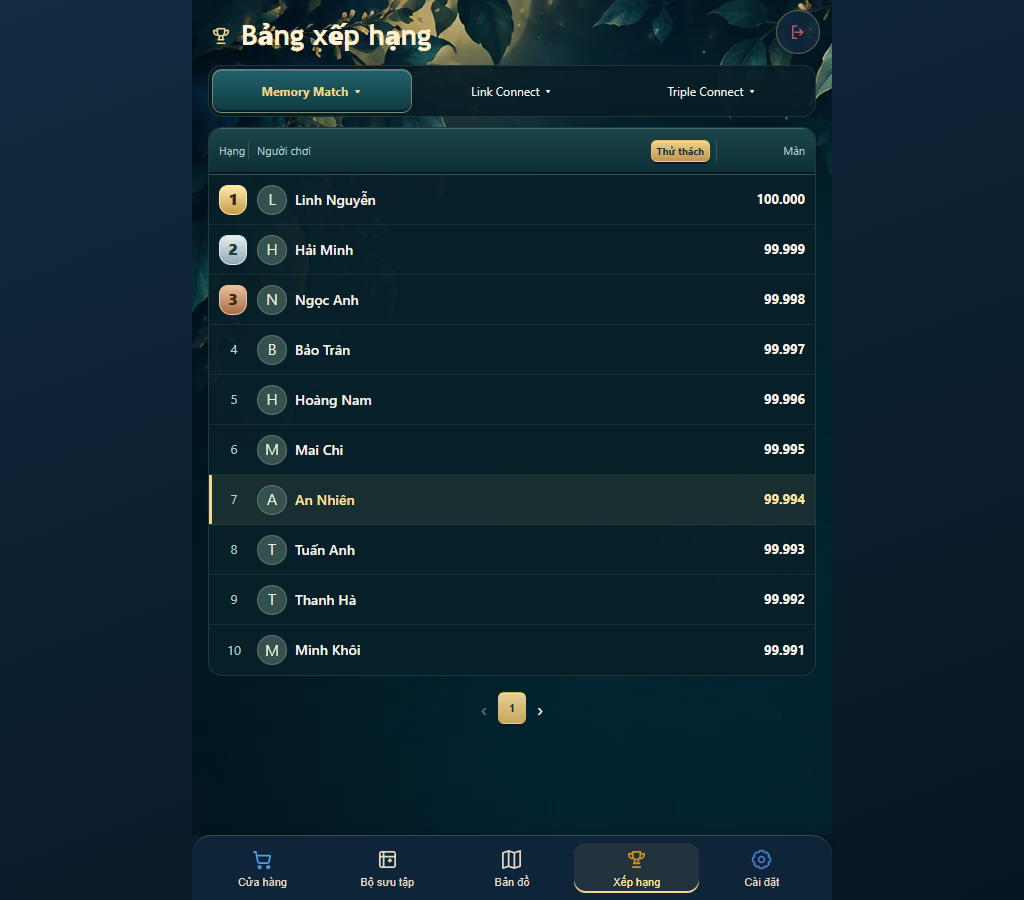
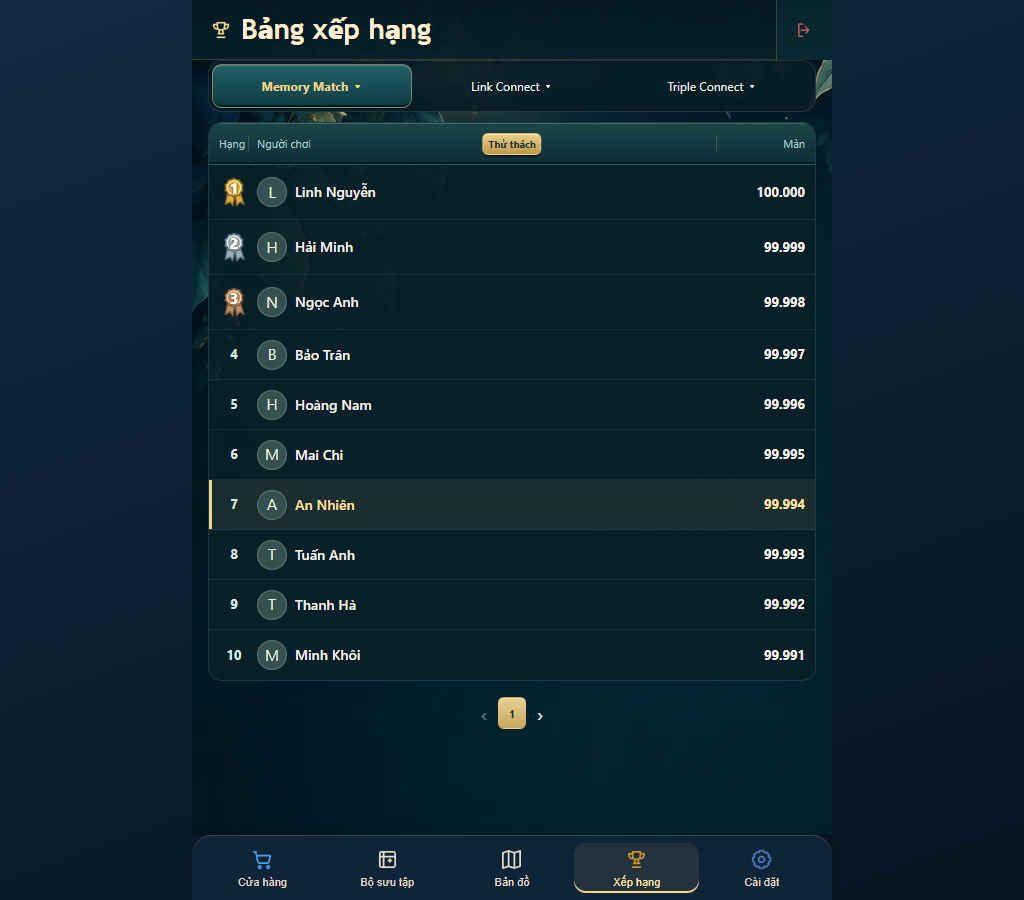
fix: refine tab headers, profile editing and rank medals

diff --git a/js/accountPanel.js b/js/accountPanel.js
@@ -23,19 +23,20 @@ export function showAccountPanel(surface = {}) {
   const identity = document.createElement('div');
   const playerName = document.createElement('h3'); playerName.className = 'profile-player-name';
   const accountType = document.createElement('p'); accountType.className = 'account-identity';
-  identity.append(playerName, accountType);
+  identity.className = 'profile-identity';
+  const nameRow = document.createElement('div'); nameRow.className = 'profile-name-row';
+  identity.append(nameRow, accountType);
   const edit = document.createElement('button'); edit.type = 'button'; edit.className = 'tab-button tab-button--quiet profile-edit';
   edit.setAttribute('aria-label', 'Sửa tên'); edit.setAttribute('aria-expanded', 'false'); edit.append(createIcon('edit'));
-  summary.append(avatar, identity, edit); hero.append(summary);
+  summary.append(avatar, identity); hero.append(summary);
   const form = document.createElement('form'); form.className = 'profile-name-form'; form.hidden = true;
-  const label = document.createElement('label'); label.textContent = 'Tên hiển thị'; label.htmlFor = 'profile-player-name';
+  const label = document.createElement('label'); label.className = 'profile-name-label'; label.textContent = 'Tên hiển thị'; label.htmlFor = 'profile-player-name';
   const name = document.createElement('input'); name.id = 'profile-player-name'; name.className = 'account-name-input';
   name.type = 'text'; name.maxLength = 20; name.required = true; name.autocomplete = 'nickname';
-  const saveName = document.createElement('button'); saveName.type = 'submit'; saveName.className = 'tab-button'; saveName.textContent = 'Lưu tên';
-  const cancel = document.createElement('button'); cancel.type = 'button'; cancel.className = 'tab-button tab-button--quiet'; cancel.textContent = 'Hủy';
-  const formActions = document.createElement('div'); formActions.className = 'profile-name-actions'; formActions.append(cancel, saveName);
+  const saveName = edit;
+  const cancel = document.createElement('button'); cancel.type = 'button'; cancel.className = 'tab-button tab-button--quiet'; cancel.textContent = '×'; cancel.setAttribute('aria-label', 'Hủy');
   const error = document.createElement('p'); error.className = 'profile-error'; error.setAttribute('role', 'alert');
-  form.append(label, name, error, formActions); hero.append(form);
+  form.append(label, name, cancel); nameRow.append(playerName, form, edit); identity.append(error);
   const stats = profileDetails(hero);
   const account = document.createElement('section'); account.className = 'tab-card profile-account';
   const heading = document.createElement('h3'); heading.className = 'tab-section-title'; heading.textContent = 'Tài khoản';
@@ -53,7 +54,7 @@ export function showAccountPanel(surface = {}) {
   activeView = { modal, dispose };
   releaseOwner = (surface.owner || getAppPageScope())?.own(dispose, 'cleanup');
   function closeEditor(focus = false) {
-    form.hidden = true; edit.setAttribute('aria-expanded', 'false'); error.textContent = ''; name.value = ''; editingUid = null;
+    form.hidden = true; playerName.hidden = false; edit.setAttribute('aria-expanded', 'false'); edit.setAttribute('aria-label', 'Sửa tên'); edit.replaceChildren(createIcon('edit')); error.textContent = ''; name.value = ''; editingUid = null;
     if (focus) edit.focus();
   }
   function renderState(state) {
@@ -62,18 +63,20 @@ export function showAccountPanel(surface = {}) {
     playerName.textContent = state.playerName || 'Người chơi';
     avatar.textContent = Array.from(playerName.textContent.trim())[0]?.toLocaleUpperCase('vi-VN') || '•';
     accountType.textContent = state.isAnonymous === false ? 'Đã liên kết Google' : 'Tài khoản khách';
-    status.textContent = ({ connecting: 'Đang kết nối…', restoring: 'Đang tải tiến trình…', syncing: 'Đang lưu…', synced: 'Đã lưu tiến trình', waiting: 'Đang chờ lưu', offline: 'Chưa có kết nối', error: 'Chưa lưu được. Sẽ thử lại.', disabled: 'Tiến trình đã lưu trên thiết bị.', conflict: 'Đang tải tiến trình…' })[state.phase] || '';
+    status.textContent = ({ connecting: 'Đang kết nối…', restoring: 'Đang tải tiến trình…', syncing: 'Đang lưu…', synced: '', waiting: 'Đang chờ lưu', offline: 'Chưa có kết nối', error: 'Chưa lưu được. Sẽ thử lại.', disabled: '', conflict: 'Đang tải tiến trình…' })[state.phase] || '';
     const busy = saving || linking || ['connecting', 'restoring', 'syncing', 'conflict'].includes(state.phase);
     edit.disabled = name.disabled = saveName.disabled = google.disabled = !service || !state.bound || busy;
     cancel.disabled = saving || linking;
     google.replaceChildren(createIcon('account'), document.createTextNode(state.isAnonymous === false ? 'Đổi tài khoản Google' : 'Liên kết Google'));
     google.hidden = !service || state.phase === 'disabled';
+    account.hidden = google.hidden && !status.textContent;
     if (busy) modal.panel.setAttribute('aria-busy', 'true');
     else modal.panel.removeAttribute('aria-busy');
   }
   edit.onclick = () => {
+    if (!form.hidden) { form.requestSubmit(); return; }
     const state = service.getState(); editingUid = state.uid; name.value = state.playerName || '';
-    form.hidden = false; edit.setAttribute('aria-expanded', 'true'); name.focus(); name.select();
+    form.hidden = false; playerName.hidden = true; edit.setAttribute('aria-expanded', 'true'); edit.setAttribute('aria-label', 'Lưu tên'); edit.replaceChildren(createIcon('check')); name.focus(); name.select();
   };
   cancel.onclick = () => closeEditor(true);
   form.onsubmit = async event => {
@@ -104,17 +107,18 @@ function profileDetails(content) {
   const joinedCard = document.createElement('div'); const timeCard = document.createElement('div');
   const joinedLabel = document.createElement('dt'); const joined = document.createElement('dd');
   const timeLabel = document.createElement('dt'); timeLabel.textContent = 'Thời gian chơi'; const time = document.createElement('dd');
+  const timeValue = document.createElement('span'); time.append(timeValue);
   joinedCard.append(joinedLabel, joined); timeCard.append(timeLabel, time); details.append(joinedCard, timeCard);
-  const since = document.createElement('p'); since.className = 'account-play-since';
+  const since = document.createElement('p'); since.className = 'account-play-since'; time.append(since);
   const status = document.createElement('p'); status.className = 'account-play-since'; status.setAttribute('aria-live', 'polite');
-  content.append(details, since, status);
+  content.append(details, status);
   const formatDate = value => new Date(value).toLocaleDateString('vi-VN', { day: '2-digit', month: '2-digit', year: 'numeric' });
   const stats = getProfileStatsService();
   const render = state => {
     joinedLabel.textContent = state.onlineAccount ? 'Tham gia' : 'Hồ sơ tạo ngày';
     joined.textContent = state.joinedAt ? formatDate(state.joinedAt) : '—';
-    time.textContent = state.totalPlayMs === null ? '—' : formatProfilePlaytime(state.totalPlayMs);
-    since.textContent = state.trackedSince ? `Từ ${formatDate(state.trackedSince)}` : '';
+    timeValue.textContent = state.totalPlayMs === null ? '—' : formatProfilePlaytime(state.totalPlayMs);
+    since.textContent = state.trackedSince ? `Tính từ ${formatDate(state.trackedSince)}` : '';
     status.textContent = state.phase === 'error' ? 'Chưa cập nhật được thời gian chơi.' : '';
   };
   render({ onlineAccount: false, totalPlayMs: null });

diff --git a/styles/leaderboard.css b/styles/leaderboard.css
@@ -34,13 +34,19 @@
 .leaderboard-heading { display: grid; grid-template-columns: 30px minmax(0, 1fr) 80px; align-items: center; gap: 8px; padding: 12px 10px; border-bottom: 1px solid var(--ranking-line); background: linear-gradient(#1b464a, #0d2e36); box-shadow: inset 0 1px #e1ebc935, inset 0 -2px #031921; position: sticky; top: 0; z-index: 1; color: var(--ranking-muted); font-size: 11px; }
 .leaderboard-heading > span:nth-child(n+3) { text-align: right; }
 .leaderboard-metric { overflow: hidden; text-overflow: ellipsis; white-space: nowrap; }
-.leaderboard-list .leaderboard-rank--1, .leaderboard-list .leaderboard-rank--2, .leaderboard-list .leaderboard-rank--3 { display: grid; place-items: center; width: 28px; height: 30px; border-radius: 9px 9px 12px 12px; color: #3a2a11; font-size: 16px; font-weight: 800; background: linear-gradient(#ffebad, #c69b49); border: 1px solid #fae8ad; box-sizing: border-box; }
-.leaderboard-list .leaderboard-rank--2 { background: linear-gradient(#e4eff0, #8fa8b1); border-color: #d7e9ea; color: #253b42; }
-.leaderboard-list .leaderboard-rank--3 { background: linear-gradient(#eabe9e, #a86d45); border-color: #ebc3a1; }
+/* Top places use illustrated medals; the remaining places stay unframed. */
+.leaderboard-list .leaderboard-rank--1, .leaderboard-list .leaderboard-rank--2, .leaderboard-list .leaderboard-rank--3 { position: relative; display: grid; place-items: center; width: 30px; height: 36px; color: #fff9e8; font-size: 15px; font-weight: 800; --rank-medal-face: #dcae42; --rank-medal-edge: #826321; --rank-medal-light: #fff0a5; }
+.leaderboard-list .leaderboard-rank--2 { --rank-medal-face: #9eafb5; --rank-medal-edge: #5b727d; --rank-medal-light: #f1fbff; }
+.leaderboard-list .leaderboard-rank--3 { --rank-medal-face: #ba8d63; --rank-medal-edge: #795438; --rank-medal-light: #ffe0b5; }
+.leaderboard-rank .ui-icon--rank-medal { position: absolute; inset: 0; width: 30px; height: 36px; stroke-width: 1.1; stroke: var(--rank-medal-edge); }
+.rank-medal__ribbons { fill: var(--rank-medal-face); }
+.rank-medal__face { fill: var(--rank-medal-face); }
+.rank-medal__shine { fill: none; stroke: var(--rank-medal-light); stroke-width: .8; }
+.leaderboard-medal-number { position: absolute; top: 4px; left: 0; width: 30px; line-height: 20px; text-align: center; text-shadow: 0 1px 2px var(--rank-medal-edge), 1px 0 var(--rank-medal-edge), -1px 0 var(--rank-medal-edge); }
 .leaderboard-list li { display: grid; grid-template-columns: 30px 30px minmax(0, 1fr) auto; align-items: center; gap: 8px; padding: 9px 10px; min-height: 50px; box-sizing: border-box; border-bottom: 1px solid #8cb6b11c; }
 .leaderboard-list li:last-child { border-bottom: 0; }
 .leaderboard-name { overflow: hidden; text-overflow: ellipsis; white-space: nowrap; font-size: 14px; font-weight: 600; }
-.leaderboard-rank { text-align: center; font-variant-numeric: tabular-nums; color: var(--ranking-muted); font-size: 13px; }
+.leaderboard-rank { text-align: center; font-variant-numeric: tabular-nums; color: #d6e9e5; font-size: 13px; font-weight: 700; }
 .leaderboard-avatar { display: grid; place-items: center; width: 30px; height: 30px; box-sizing: border-box; border-radius: 50%; border: 1px solid #d9e9d540; background: #34514f; color: #e8efdc; }
 .leaderboard-avatar .ui-icon { width: 20px; height: 20px; }
 .leaderboard-list strong { font-size: 13px; font-variant-numeric: tabular-nums; text-align: right; }
@@ -69,8 +75,8 @@
 .leaderboard-results::-webkit-scrollbar { display: none; }
 .leaderboard-heading > span { min-width: 0; }
 .leaderboard-heading > span:not(:last-child) { border-right: 1px solid #d7cb9433; padding-right: 6px; }
-.leaderboard-heading-player { display: flex; align-items: center; justify-content: space-between; gap: 4px; }
+.leaderboard-heading-player { display: flex; align-items: center; gap: 4px; }
 .leaderboard-heading-player > span { white-space: nowrap; }
-.leaderboard-family-label { padding: 3px 5px; border: 1px solid #e6c980a1; border-radius: 6px; background: linear-gradient(#efd28a, #bf974b); box-shadow: inset 0 1px #fff4c680, 0 2px #061b24; color: #16343a; white-space: nowrap; font-size: 10px; line-height: 1.4; }
+.leaderboard-family-label { position: absolute; left: 50%; top: 50%; transform: translate(-50%, -50%); padding: 3px 5px; border: 1px solid #e6c980a1; border-radius: 6px; background: linear-gradient(#efd28a, #bf974b); box-shadow: inset 0 1px #fff4c680, 0 2px #061b24; color: #16343a; white-space: nowrap; font-size: 10px; line-height: 1.4; }
 .leaderboard-panel .leaderboard-retry { display: block; margin: 0 auto 18px; }
 .leaderboard-panel .leaderboard-retry[hidden] { display: none; }

diff --git a/styles/profile.css b/styles/profile.css
@@ -1,28 +1,35 @@
 .profile-view { display: grid; gap: 22px; padding-top: 10px; min-width: 0; }
-.profile-summary { display: grid; grid-template-columns: 64px minmax(0, 1fr) 44px; gap: 14px; align-items: center; }
+.profile-summary { display: grid; grid-template-columns: 64px minmax(0, 1fr); gap: 14px; align-items: center; }
 .profile-avatar { display: grid; place-items: center; width: 64px; height: 64px; border: 2px solid var(--tab-gold); border-radius: 50%; background: linear-gradient(140deg, #286070, #09222b); color: var(--tab-gold); box-shadow: var(--tab-edge); font-size: 30px; font-weight: 700; }
 .profile-player-name { margin: 0 0 5px; color: var(--tab-ink); font-size: 22px; line-height: 1.3; overflow-wrap: anywhere; }
 .account-identity { color: var(--tab-muted); font-size: 12px; }
-.profile-edit { padding: 10px; }
+.profile-edit { padding: 10px; flex: 0 0 44px; }
+.profile-identity { min-width: 0; }
+.profile-name-row { display: flex; align-items: center; gap: 6px; min-width: 0; }
+.profile-name-row .profile-player-name { margin: 0; }
+.profile-name-row + .account-identity { margin-top: 5px; }
 .account-play-details { display: grid; grid-template-columns: repeat(2, minmax(0, 1fr)); gap: 12px; margin: 20px 0 0; }
 .account-play-details > div { min-width: 0; padding: 12px; border: 1px solid #b6a16c55; border-radius: 12px; background: #06212acf; box-shadow: var(--tab-edge); }
 .account-play-details dt { color: var(--tab-muted); font-size: 12px; }
 .account-play-details dd { margin: 7px 0 0; color: var(--tab-gold); font-size: 15px; line-height: 1.5; font-variant-numeric: tabular-nums; overflow-wrap: anywhere; }
 .account-play-since { margin-top: 10px !important; color: var(--tab-muted); font-size: 11px; }
 .account-play-since:empty { display: none; }
+.account-status:empty { display: none; }
+.account-status:empty + .profile-google { margin-top: 0; }
 .account-status { color: var(--tab-muted); font-size: 13px; }
 .profile-google { width: 100%; margin-top: 16px; }
-.profile-name-form { display: grid; gap: 10px; padding-top: 18px; margin-top: 18px; border-top: 1px solid var(--tab-line); font-size: 14px; }
+.profile-name-form { display: grid; grid-template-columns: minmax(0, 1fr) 44px; gap: 4px; flex: 1; min-width: 0; font-size: 16px; }
+.profile-name-label { position: absolute; width: 1px; height: 1px; overflow: hidden; clip-path: inset(50%); }
+.profile-name-form .tab-button { padding: 4px; min-width: 44px; }
 .profile-name-form[hidden], .profile-google[hidden] { display: none; }
-.account-name-input { box-sizing: border-box; width: 100%; min-height: 44px; border: 1px solid #9fbdb47a; border-radius: 10px; padding: 10px 12px; background: #051c27; color: var(--tab-ink); font: inherit; }
+.account-name-input { box-sizing: border-box; width: 100%; min-width: 0; min-height: 44px; border: 1px solid #9fbdb47a; border-radius: 10px; padding: 10px 12px; background: #051c27; color: var(--tab-ink); font: inherit; }
 .account-name-input:focus { outline: 2px solid var(--tab-gold); outline-offset: 2px; }
-.profile-name-actions { display: flex; gap: 10px; justify-content: flex-end; }
 .profile-error { font-size: 13px; color: #ffaaa1; }
 .profile-error:empty { display: none; }
 #account-modal:not(.app-screen-content) .app-modal { background: #071f29; border-color: var(--tab-line); }
 #account-modal .app-modal__close { background: #ffffff12; color: var(--tab-gold); }
 @media (max-width: 360px) {
-  .profile-summary { grid-template-columns: 48px minmax(0, 1fr) 44px; gap: 10px; }
+  .profile-summary { grid-template-columns: 48px minmax(0, 1fr); gap: 10px; }
   .profile-avatar { width: 48px; height: 48px; font-size: 25px; }
   .profile-player-name { font-size: 19px; }
   .account-play-details { gap: 8px; }

diff --git a/tests/ui/leaderboard-layout.spec.js b/tests/ui/leaderboard-layout.spec.js
@@ -141,7 +141,7 @@ test('30 mount, picker cancel and mode changes release every page-owned resource
   await test.info().attach('ranking-30-cycle-resources', { body: JSON.stringify(evidence), contentType: 'application/json' });
   expect(decodes.length).toBeLessThanOrEqual(1);
 });
-for (const viewport of [{ width: 412, height: 915 }, { width: 640, height: 360 }, { width: 844, height: 390 }, { width: 1024, height: 900 }]) {
+for (const viewport of [{ width: 320, height: 740 }, { width: 412, height: 915 }, { width: 640, height: 360 }, { width: 844, height: 390 }, { width: 1024, height: 900 }]) {
   test(`ranking layout, all nine boards and scroll at ${viewport.width}x${viewport.height}`, async ({ page }) => {
     await page.setViewportSize(viewport); await open(page);
     for (const game of ['memory-match', 'link-connect', 'triple-connect']) {
@@ -157,6 +157,13 @@ for (const viewport of [{ width: 412, height: 915 }, { width: 640, height: 360 }
     for (const box of boxes) { expect(box.x).toBeGreaterThanOrEqual(0); expect(box.right).toBeLessThanOrEqual(viewport.width); expect(Math.round(box.height * 1000) / 1000).toBeGreaterThanOrEqual(box.minimum); expect(box.bottom).toBeLessThanOrEqual(viewport.height); }
     await expect(page.locator('.leaderboard-tabs--mode, .leaderboard-level')).toHaveCount(0);
     const panelBox = await page.locator('.leaderboard-panel').boundingBox();
+    const headingBox = await page.locator('.leaderboard-heading').boundingBox();
+    const familyBox = await page.locator('.leaderboard-family-label').boundingBox();
+    expect(Math.abs(familyBox.x + familyBox.width / 2 - headingBox.x - headingBox.width / 2)).toBeLessThan(1);
+    const playerLabel = await page.locator('.leaderboard-heading-player > span').boundingBox();
+    const levelLabel = await page.locator('.leaderboard-heading > span:last-child').boundingBox();
+    expect(playerLabel.x + playerLabel.width).toBeLessThanOrEqual(familyBox.x);
+    expect(familyBox.x + familyBox.width).toBeLessThanOrEqual(levelLabel.x);
     const pagerBox = await page.locator('.leaderboard-pager').boundingBox();
     expect(Math.abs(pagerBox.x + pagerBox.width / 2 - panelBox.x - panelBox.width / 2)).toBeLessThan(2);
     await page.getByRole('button', { name: 'Sau', exact: true }).click();
@@ -210,7 +217,12 @@ test('final garden artwork, centered footer and background failure keep a usable
   const last = await page.locator('.leaderboard-list li').last().boundingBox();
   const region = await page.locator('.leaderboard-results').boundingBox();
   expect(last.y + last.height).toBeLessThanOrEqual(region.y + region.height);
-  expect(await page.locator('.leaderboard-rank--1').evaluate(node => getComputedStyle(node).color)).toBe('rgb(58, 42, 17)');
+  expect(await page.locator('.leaderboard-rank--1').evaluate(node => getComputedStyle(node).color)).toBe('rgb(255, 249, 232)');
+  await expect(page.locator('.ui-icon--rank-medal')).toHaveCount(3);
+  await expect(page.locator('.leaderboard-medal-number')).toHaveText(['1', '2', '3']);
+  await expect(page.getByRole('img', { name: 'Hạng 1', exact: true })).toHaveCount(1);
+  expect(await page.locator('.leaderboard-rank--1').evaluate(node => getComputedStyle(node).borderStyle)).toBe('none');
+  await expect(page.locator('.leaderboard-list li').nth(3).locator('.ui-icon--rank-medal')).toHaveCount(0);
   await page.locator('.leaderboard-results').blur();
   await page.screenshot({ path: 'docs/design/app-tabs/qa/mobile-level.png', animations: 'disabled' });
   await page.locator('[data-rank-game="memory-match"]').click();

diff --git a/tests/ui/profile-layout.spec.js b/tests/ui/profile-layout.spec.js
@@ -15,19 +15,29 @@ for (const viewport of [{ width: 320, height: 740 }, { width: 412, height: 915 }
   await page.setViewportSize(viewport); await open(page);
   await expect(page.locator('.profile-name-form')).toBeHidden();
   await expect(page.locator('#account-modal .app-modal__footer')).toHaveCount(0);
+  await expect(page.locator('.account-status')).toBeEmpty();
+  const title = await page.locator('.profile-player-name').boundingBox();
+  const pencil = await page.getByRole('button', { name: 'Sửa tên' }).boundingBox();
+  expect(pencil.x - title.x - title.width).toBeLessThanOrEqual(8);
   await page.getByRole('button', { name: 'Sửa tên' }).click();
+  await expect(page.locator('.profile-player-name')).toBeHidden();
+  await expect(page.locator('.app-modal-overlay')).toHaveCount(0);
   await page.locator('.account-name-input').fill('Tên đang sửa');
+  if (viewport.width === 412) await page.screenshot({ path: 'docs/design/app-tabs/qa/profile-editing-412.png', animations: 'disabled' });
   await page.evaluate(() => { window.profileState.phase = 'waiting'; window.profileSubscriber(window.profileState); });
   await expect(page.locator('.account-name-input')).toHaveValue('Tên đang sửa');
   await page.getByRole('button', { name: 'Hủy', exact: true }).click();
   await expect(page.locator('.profile-player-name')).toHaveText('An Nhiên');
   await page.getByRole('button', { name: 'Sửa tên' }).click();
   await page.locator('.account-name-input').fill('Tên đã lưu');
-  await page.getByRole('button', { name: 'Lưu tên', exact: true }).click();
+  await page.locator('.account-name-input').press('Enter');
   await expect(page.locator('.profile-player-name')).toHaveText('Tên đã lưu');
   await expect(page.locator('.profile-name-form')).toBeHidden();
   expect(await page.locator('.profile-view').evaluate(el => el.scrollWidth <= el.clientWidth)).toBe(true);
   await expect(page.getByRole('button', { name: 'Liên kết Google', exact: true })).toBeVisible();
+  await page.evaluate(() => { window.profileState.phase = 'synced'; window.profileSubscriber(window.profileState); });
+  await expect(page.locator('.app-toast')).toHaveCount(0);
+  await page.screenshot({ path: `docs/design/app-tabs/qa/profile-inline-${viewport.width}.png`, animations: 'disabled' });
 });
 test('profile failures keep the draft, UID changes discard it, pending actions do not mutate a closed view', async ({ page }) => {
   await open(page); await page.getByRole('button', { name: 'Sửa tên' }).click();

diff --git a/tests/ui/app-tabs.spec.js b/tests/ui/app-tabs.spec.js
@@ -2,6 +2,25 @@ import { expect, test } from '@playwright/test';
 import { mkdirSync } from 'node:fs';
 mkdirSync('docs/design/app-tabs/qa', { recursive: true });
 
+for (const viewport of [{ width: 320, height: 740 }, { width: 412, height: 915 }, { width: 844, height: 390 }, { width: 1024, height: 900 }]) test(`five tab exit buttons attach to the header corner at ${viewport.width}`, async ({ page }) => {
+  await page.setViewportSize(viewport); await page.goto('/');
+  for (const action of ['missions', 'friends', 'profile', 'ranking', 'settings']) {
+    await page.locator(`.adventure-page:not([hidden]) [data-dock-action="${action}"]`).click();
+    const screen = page.locator('.adventure-screen');
+    const header = await screen.locator('.app-modal__header').boundingBox();
+    const exit = screen.locator(':scope > .adventure-exit'); const box = await exit.boundingBox();
+    expect(Math.abs(box.x + box.width - header.x - header.width)).toBeLessThan(1);
+    expect(Math.abs(box.y - header.y)).toBeLessThan(1);
+    expect(box.height).toBe(header.height);
+    await expect(exit).toHaveCSS('border-radius', '0px');
+    await screen.locator('.app-modal__body').evaluate(el => el.scrollTop = el.scrollHeight);
+    expect((await exit.boundingBox()).y).toBe(box.y);
+  }
+  await page.locator('.adventure-screen > .adventure-exit').click();
+  await expect(page.locator('.adventure-screen')).toHaveCount(0);
+  await expect(page.locator('.game-selector__choice')).toHaveCount(3);
+});
+
 test('functional tab backgrounds load on demand and never appear on Home', async ({ page }) => {
   await page.goto('/');
   await expect(page.locator('[data-dock-action="profile"]')).toBeVisible();
@@ -11,6 +30,7 @@ test('functional tab backgrounds load on demand and never appear on Home', async
     await page.locator(`.adventure-page:not([hidden]) [data-dock-action="${action}"]`).click();
     const screen = page.locator(`.adventure-screen[data-screen="${action}"]`);
     await expect(screen).toBeVisible();
+    expect(await screen.locator('.app-modal__header').evaluate(el => getComputedStyle(el).backgroundImage)).toContain('linear-gradient');
     expect(await screen.evaluate(el => getComputedStyle(el).backgroundImage)).toContain(`${paths[index]}.webp`);
     await expect.poll(() => page.evaluate(path => performance.getEntriesByType('resource').some(entry => entry.name.includes(`${path}.webp`)), paths[index])).toBe(true);
     await expect(page.locator('.adventure-screen')).toHaveCount(1);

diff --git a/styles/app-tabs.css b/styles/app-tabs.css
@@ -11,13 +11,37 @@
 .adventure-screen[data-screen="friends"] { --tab-background: url('/assets/images/backgrounds/friends-courtyard.webp'); }
 .adventure-screen[data-screen="profile"] { --tab-background: url('/assets/images/backgrounds/profile-keepsake.webp'); }
 .adventure-screen[data-screen="settings"] { --tab-background: url('/assets/images/backgrounds/settings-retreat.webp'); }
+.adventure-screen:is([data-screen="missions"], [data-screen="friends"], [data-screen="profile"], [data-screen="ranking"], [data-screen="settings"]) { --tab-header-height: 60px; }
+.adventure-screen:is([data-screen="missions"], [data-screen="friends"], [data-screen="profile"], [data-screen="ranking"], [data-screen="settings"]) .app-modal__header {
+  height: var(--tab-header-height);
+  min-height: var(--tab-header-height);
+  flex: 0 0 var(--tab-header-height);
+  padding: 12px 64px 12px 18px;
+}
+.adventure-screen:is([data-screen="missions"], [data-screen="friends"], [data-screen="profile"], [data-screen="ranking"], [data-screen="settings"]) > .adventure-exit {
+  top: env(safe-area-inset-top);
+  right: max(0px, calc((100% - 640px) / 2));
+  width: 56px;
+  height: var(--tab-header-height);
+  padding: 0;
+  border: 0;
+  border-left: 1px solid #d9bc6e38;
+  border-radius: 0;
+  background: linear-gradient(#08242b, #0b2932);
+  box-shadow: none;
+  color: var(--tab-gold);
+}
+.adventure-screen > .adventure-exit:hover { transform: none; filter: none; }
+.adventure-screen > .adventure-exit:focus-visible { outline: 2px solid var(--tab-gold); outline-offset: -3px; }
 .adventure-screen:is([data-screen="missions"], [data-screen="friends"], [data-screen="profile"], [data-screen="settings"]) {
   background-color: #041c25;
   background-image: linear-gradient(#04192320, #04192340), var(--tab-background);
   background-size: cover;
   background-position: center;
 }
-:is(#account-modal, #settings-modal, #missions-screen, #friends-screen) .app-modal__header {
+:is(#account-modal, #settings-modal, #missions-screen, #friends-screen, #rankings-modal) .app-modal__header {
+  background: linear-gradient(#041923fc, #071f29f7);
+  text-shadow: 0 1px 2px #0008;
   border-bottom: 1px solid #d9bc6e38;
   color: var(--tab-gold);
 }

diff --git a/js/leaderboardPanel.js b/js/leaderboardPanel.js
@@ -162,6 +162,11 @@ export function openLeaderboards(gameId, onClose, surface = {}) {
         const rank = (currentPage - 1) * 10 + index + 1;
         const row = document.createElement('li');
         const place = document.createElement('span'); place.className = `leaderboard-rank${rank <= 3 ? ` leaderboard-rank--${rank}` : ''}`; place.textContent = String(rank); place.setAttribute('aria-label', `Hạng ${rank}`);
+        if (rank <= 3) {
+          place.setAttribute('role', 'img');
+          const number = document.createElement('span'); number.className = 'leaderboard-medal-number'; number.textContent = String(rank); number.setAttribute('aria-hidden', 'true');
+          place.replaceChildren(createIcon('rank-medal'), number);
+        }
         const avatar = document.createElement('span'); avatar.className = 'leaderboard-avatar'; avatar.textContent = Array.from(item.playerName.trim()).slice(0, 1).join('').toLocaleUpperCase('vi-VN') || '•'; avatar.setAttribute('aria-hidden', 'true');
         const name = document.createElement('span'); name.className = 'leaderboard-name'; name.textContent = item.playerName; name.title = item.playerName;
         if (item.uid === uid) { row.classList.add('is-self'); name.setAttribute('aria-label', `${item.playerName}, bạn`); }

diff --git a/js/icons.js b/js/icons.js
@@ -1,6 +1,8 @@
 const SVG_NS = "http://www.w3.org/2000/svg";
 
 const ICON_PATHS = Object.freeze({
+  'rank-medal': '<path class="rank-medal__ribbons" d="m7 12-2 10 4-2 2 3 2-10M13 13l1 10 3-3 3 2-3-10"/><path class="rank-medal__face" d="m12 1 2 1.2 2.4.2.9 2.2 1.8 1.6-.5 2.3.5 2.3-1.8 1.6-.9 2.2-2.4.2L12 16l-2-1.2-2.4-.2-.9-2.2-1.8-1.6.5-2.3-.5-2.3 1.8-1.6.9-2.2 2.4-.2z"/><circle class="rank-medal__shine" cx="12" cy="8.5" r="5.3"/>',
+  check: '<path d="m5 12 4 4L19 6"/>',
   edit: '<path d="m4 16 11-11 4 4L8 20H4zM13 7l4 4M15 5l2-2 4 4-2 2"/>',
   trash: '<path d="M3 6h18M9 6V3h6v3M5 6l1 15h12l1-15M10 10v7M14 10v7"/>',
   missions: '<rect x="5" y="4" width="14" height="17" rx="2"/><path d="M9 2h6v4H9zM8 11l2 2 5-5M8 17h8"/>',

diff --git a/tests/ui/profile-stats.spec.js b/tests/ui/profile-stats.spec.js
@@ -29,7 +29,7 @@ test('three games share durable active time, excluding startup and nested pause,
   await expect.poll(total).toBe(96000);
   await page.locator('[data-dock-action="profile"]').click();
   await expect(page.locator('.account-play-details')).toContainText('0 giờ 1 phút');
-  await expect(page.locator('.account-play-since').first()).toContainText('Từ');
+  await expect(page.locator('.account-play-since').first()).toContainText('Tính từ');
   await page.reload();
   await expect(page.locator('[data-dock-action="profile"]')).toBeVisible();
   await expect.poll(total).toBe(96000);

diff --git a/ARCHITECTURE.md b/ARCHITECTURE.md
@@ -181,8 +181,10 @@ Pair snapshot giữ seed/theme, bàn thật, score/moves/misses/matched, lucky h
 
 `styles/app-tabs.css` sở hữu palette/surface/button và background theo `adventure-screen[data-screen]`;4ảnh WebP chỉ tải khi screen tương ứng mount, Home/map/gameplay không dùng nền này. Pipeline `scripts/prepare-app-tab-assets.py` tạo output từ PNG master trong docs; flourish runtime384px giữ alpha. Xếp hạng giữ Vườn đêm cũ. Không preload toàn bộ nền hoặc thêm animation loop.
 
-`accountPanel.js` sở hữu Profile hero/name editor/stats/account; Google action nằm content thay footer. Draft chỉ thay khi người dùng mở/hủy/lưu hoặc UID đổi; saving/linking khóa đúng controls, dispose không nhận kết quả cũ. `styles/profile.css` là owner bố cục này. Nguồn Auth/ngày tạo/playtime và privacy giữ nguyên.
+`accountPanel.js` sở hữu Profile hero/name editor/stats/account; Google action nằm content thay footer. Draft chỉ thay khi người dùng mở/hủy/lưu hoặc UID đổi; saving/linking khóa đúng controls, dispose không nhận kết quả cũ. `styles/profile.css` là owner bố cục này. Editor thay tên ngay trong cùng hàng; bút đổi thành xác nhận, Hủy trả lại tên. Ngày bắt đầu tracking thuộc ô thời gian chơi; trạng thái synced/disabled không hiện thông báo thành công thường trực. Nguồn Auth/ngày tạo/playtime và privacy giữ nguyên.
 
 `settings.js` di chuyển cùng settings DOM vào screen/pause modal và trả về home khi hủy; Help/Reset trong nhóm cuối, handler tạm được gỡ khi destroy. IDs, saveSetting, audio và handoff của từng controller giữ nguyên. `styles/settings.css` sở hữu nhóm/control/toggle/native-range; fill variable cập nhật theo giá trị, reduced-motion không animate thumb.
 
-`leaderboardPanel.js` fresh trang1 ở mount/UID/retry, bỏ refresh thường trực. Store nhận option bổ sung `forceRefresh` mặc địnhfalse, chỉ vô hiệu cache đúng board/environment/UID; semantics refresh cooldown15s cũ và paging cache giữ tương thích. Stale/reset khôi phục trang1 tối đa1lần/request, lỗi có Thử lại theo ngữ cảnh. Family là badge ở header Người chơi, không thêm metric public. Menu max-content128px, hit44px, viewport clamp và focus/keyboard owner giữ nguyên.
+`leaderboardPanel.js` fresh trang1 ở mount/UID/retry, bỏ refresh thường trực. Store nhận option bổ sung `forceRefresh` mặc địnhfalse, chỉ vô hiệu cache đúng board/environment/UID; semantics refresh cooldown15s cũ và paging cache giữ tương thích. Stale/reset khôi phục trang1 tối đa1lần/request, lỗi có Thử lại theo ngữ cảnh. Family là badge canh giữa header bảng, không thêm metric public. Top3 dùng icon SVG huy chương và nhãn hạng accessible; hạng4+ là số không khung. Menu max-content128px, hit44px, viewport clamp và focus/keyboard owner giữ nguyên.
+
+`styles/app-tabs.css` sở hữu thanh tiêu đề tối cao60px và vùng thoát56px gắn góc phải trên cả5tab, theo safe-area và host tối đa640px. Exit giữ DOM/handler của navigation, đứng ngoài vùng cuộn; không thay lifecycle hoặc hành vi trở về Home.
